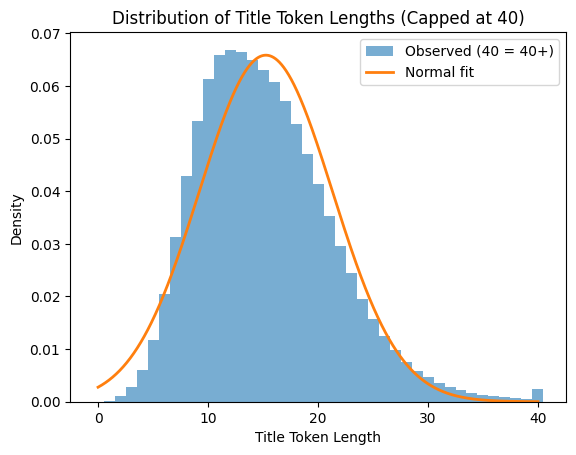
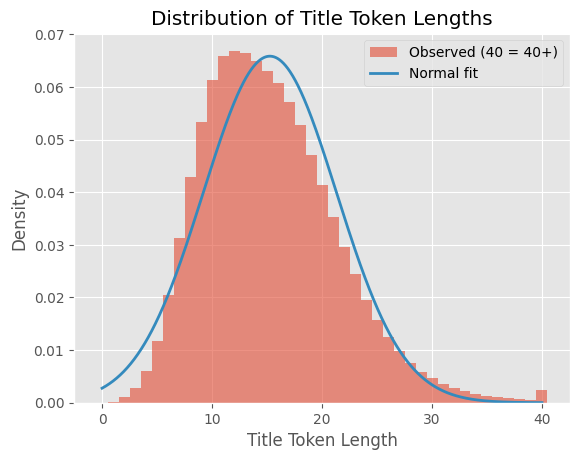
updated paper

diff --git a/paper/conference_101719.tex b/paper/conference_101719.tex
@@ -35,7 +35,7 @@ [email redacted]}
 
 \begin{abstract}
 
-This paper presents a partial replication study of "Can Pre-Trained Language Models Generate Titles for Research Papers?" Instead of fine-tuning large or medium-scale transformer models, I  investigate whether a 135-million parameter model, called SmolLM-135M, can achieve competitive title generation performance. I experiment with both full fine-tuning (FFT) and Low-Rank Adaptation (LoRA) across two training regimes: a small domain-specific dataset (CSPubSum) and a larger, more diverse dataset comprising over 2.4 million samples drawn from arXiv, Wikipedia, and Medium blog articles. Evaluation is performed on the LREC-COLING 2024 benchmark using ROUGE-1, ROUGE-2, and ROUGE-L scores. My best configuration, full fine-tuning on the large dataset, achieves ROUGE-1/2/L scores of 41.31/22.51/35.21, approaching the performance of fine-tuned large language models at a fraction of the parameter count. In the following, I discuss training dynamics, the effect of dataset scale, and the impact of generation length on evaluation scores. Last but not least, the final model is converted to ONNX format and deployed as a browser-based application using Transformers.js.
+This paper presents a partial replication study of "Can Pre-Trained Language Models Generate Titles for Research Papers?" Instead of fine-tuning large or medium-scale transformer models, I investigate whether a 135-million parameter model, called SmolLM-135M, can achieve competitive title generation performance. I experiment with both full fine-tuning (FFT) and Low-Rank Adaptation (LoRA) across two training regimes: a small domain-specific dataset (CSPubSum) and a larger, more diverse dataset comprising over 2.4 million samples drawn from arXiv, Wikipedia, and Medium blog articles. Evaluation is performed on the LREC-COLING 2024 benchmark using ROUGE-1, ROUGE-2, and ROUGE-L scores. My best configuration, full fine-tuning on the large dataset, achieves ROUGE-1/2/L scores of 41.32/22.51/35.21, approaching the performance of fine-tuned large language models at a fraction of the parameter count. In the following, I discuss training dynamics, the effect of dataset scale, and the impact of generation length on evaluation scores. Last but not least, the final model is converted to ONNX format and deployed as a browser-based application using Transformers.js.
 
 %{'loss': 11.6742, 'grad_norm': 1.7175283432006836, 'learning_rate': 3.841897233201582e-05, 'epoch': 0.2}            
 % {'loss': 11.0562, 'grad_norm': 2.64554762840271, 'learning_rate': 3.6837944664031623e-05, 'epoch': 0.39}            
@@ -105,11 +105,11 @@ As a secondary contribution, I demonstrate practical deployment: the best model 
 \section{Related Work}
 Title generation has historically been treated as a summarization problem, where the abstract plays the role of the source document and the title is the extreme summary. Early work used extractive approaches and template-based methods. With the rise of neural sequence-to-sequence models, abstractive generation became dominant, with LSTM-based encoder-decoders eventually giving way to transformer architectures \cite{b1}.
 
-The reference paper by Rehman et al. \cite{b2} is the most directly relevant work. They benchmark both encoder-decoder models and decoder-only LLMs on CSPubSum and LREC-COLING 2024, finding that fine-tuned T5-base and BART-base yield ROUGE-1 scores around 46--47, while PEGASUS-large reaches nearly 50. Notably, the non-fine-tuned LLaMA-3-8B model in a zero-shot setting scores only 32.92 on ROUGE-1, highlighting the importance of task-specific fine-tuning even for large models.
+The reference paper by Rehman et al. \cite{b2} is the most directly relevant work. They benchmark both encoder-decoder models and decoder-only LLMs on CSPubSum and LREC-COLING 2024, finding that fine-tuned T5-base and BART-base yield ROUGE-1 scores around 46--47 percent, while PEGASUS-large reaches nearly 50\%. Notably, the non-fine-tuned LLaMA-3-8B model in a zero-shot setting scores only 32.92 on ROUGE-1, highlighting the importance of task-specific fine-tuning even for large models.
 
 LoRA \cite{b3} has emerged as an efficient alternative to full fine-tuning by injecting trainable low-rank matrices into frozen transformer layers. Rather than updating all model weights, LoRA introduces a small number of additional parameters (controlled by rank r) that are sufficient to adapt the model to new tasks. This significantly reduces memory and compute requirements, making it well-suited for consumer hardware.
 
-SmolLM \cite{b4} is a family of compact causal language models trained on the SmolLM-Corpus, which includes curated web text and code. The 135M variant, used in this work, uses the Llama 3.2 architecture and tokenizer, making it compatible with standard HuggingFace tooling. To my knowledge, no prior work has evaluated SmolLM-135M on title generation.
+SmolLM \cite{b4} is a family of compact causal language models trained on the SmolLM-Corpus, which includes curated web text and code. The 135M variant, used in this work, uses the MobileLLM \cite{b5} architecture and cosmo2-tokenizer\cite{b6}, making it compatible with standard HuggingFace tooling. To my knowledge, no prior work has evaluated SmolLM-135M on title generation.
 
 
 \section{Data}
@@ -117,9 +117,10 @@ SmolLM \cite{b4} is a family of compact causal language models trained on the Sm
 \subsection{Training Datasets}
 I used two distinct training corpora representing different scales and domains.
 
-\textbf{CSPubSum}: The CSPubSum training dataset contains 8,120 abstract-title pairs from computer science publications. This dataset was used in the original reference paper and represents the primary in-domain training resource for scientific title generation. Cleaning follows the same protocol as the reference paper: title length is constrained to between 3 and 20 tokens, and abstracts must be at least 20 tokens long. 
+\textbf{CSPubSum}: The CSPubSum training dataset contains 8,120 abstract-title pairs from computer science publications. This dataset was used in the original reference paper and represents the primary in-domain training resource for scientific title generation. Cleaning follows the same protocol as the reference paper: title length is constrained to between 3 and 20 tokens, and abstracts must be at least 20 tokens long. This requirement is necessary, in order to treat the title generation as an extreme form of text summarization.
 
-\textbf{Large (diverse) Dataset}: To test whether broader training signal can compensate for domain mismatch, I construct a second training corpus by combining three sources: (1) a Kaggle dataset merging arXiv abstracts with Wikipedia articles, totalling approximately 2.65 million entries; (2) the Medium Articles dataset from Kaggle, containing approximately 192,000 blog posts with titles. The two sources are concatenated and subjected to a shared cleaning pipeline. 
+\textbf{Large (diverse) Dataset}: To test whether broader training signal can compensate for domain mismatch, I construct a second training corpus by combining three sources: (1) a Kaggle dataset merging arXiv abstracts with Wikipedia articles, totaling approximately 2.65 million entries; (2) the Medium Articles dataset from Kaggle, containing approximately 192,000 blog posts with titles. The two sources are concatenated and subjected to a shared cleaning pipeline. 
+\textbf{Note:} In the following this dataset is referred to as \textit{Large Dataset} or \textit{Large Diverse Dataset}. In the python code, this is usually referred to as \textit{own} or \textit{train\_data.csv}.
 
 
 \begin{table}[h]
@@ -131,67 +132,91 @@ I used two distinct training corpora representing different scales and domains.
 \hline
 \href{https://www.kaggle.com/datasets/monikaavagyan/combined-dataset-from-arxiv-and-wikipedia}{Wikipedia} & 900{,}000 \\
 \href{https://www.kaggle.com/datasets/fabiochiusano/medium-articles}{Medium.com} & 190{,}000 \\
-\href{https://www.kaggle.com/datasets/Cornell-University/arxiv}{Arxiv} & 1{,}700{,}000 \\
+\href{https://www.kaggle.com/datasets/Cornell-University/arxiv}{Arxiv} & 1{,}750{,}000 \\
 \hline
 \end{tabular}
 \end{table}
 
 \subsection{Data Cleaning}
 
-Both datasets pass through the following cleaning steps. First, duplicates are removed. Second, samples with titles containing LaTeX mathematical expressions (e.g., dollar-sign delimited formulas), numbers greater than 99, or parenthetical expressions are filtered out, as these tend to produce noisy or unpredictable targets. Third, all samples are tokenized using the SmolLM tokenizer, and only those where the concatenated text (abstract + title prompt) fits within 512 tokens are retained. Finally, any samples whose titles appear in the LREC-COLING 2024 test set are removed to prevent data leakage.
+Both datasets pass through the following cleaning steps. First, duplicates are removed. Second, samples with titles containing LaTeX mathematical expressions (e.g., dollar-sign delimited formulas), numbers greater than 99, or parenthetical expressions are filtered out, as these tend to produce noisy or unpredictable targets. Third, all samples are tokenized using the cosmos2 tokenizer, and only those where the concatenated text (abstract + title prompt) fits within 512 tokens are retained. Finally, any samples whose titles appear in the LREC-COLING 2024 \textbf{test set} are removed to prevent data leakage.
 
 \begin{figure}[htbp]
 \centering
 \includegraphics[width=1\columnwidth]{data_cleaning_pipeline(1).png}
 \caption{Visualization of data cleaning pipeline for the large diverse dataset.}
-\label{fig}
+\label{fig:dataCleaning}
 \end{figure}
 
-After cleaning, the large dataset contains approximately 2.41 million samples. A notable consequence of the LaTeX filtering is the removal of a substantial fraction of arXiv papers, many of which contain mathematical notation in their titles. This shifts the distribution of the large dataset toward more general-domain content, which may explain some of the generalisation patterns observed in the results.
+After cleaning, the large dataset contains approximately 2.41 million samples. A notable consequence of the LaTeX filtering is the removal of a substantial fraction of arXiv papers, many of which contain mathematical notation in their titles. This may shift the distribution of the large dataset toward more general-domain content, which may explain some of the generalisation patterns observed in the results. See Figure \ref{fig:dataCleaning} for a detailed breakdown of the cleaning pipeline.
 
 \subsection{Evaluation Dataset}
 
-All models are evaluated on the LREC-COLING 2024 test set, a benchmark of scientific paper title-abstract pairs released alongside the reference paper. This set is held out from all training data, as described above. I report macro-averaged F1 scores for ROUGE-1, ROUGE-2, and ROUGE-L using the rouge-score library with stemming enabled.
+All models are evaluated on the LREC-COLING 2024 test set, a benchmark of scientific paper title-abstract pairs released alongside the reference paper. As an effort to make my results easier to reproduce, I published the test set on Kaggle \cite{b7}. This set is held out from all training data, as described above.
 
 \section{Methodology}
 
 \subsection{Base Model}
-All experiments use SmolLM-135M (HuggingFaceTB/SmolLM-135M) as the base model. This is a decoder-only causal language model with 135 million parameters, trained on a mixture of web text and code. It uses the Llama 3.2 tokenizer with a vocabulary size of 49,152. The model is publicly available on HuggingFace.
+All experiments use SmolLM-135M v1 (\href{https://huggingface.co/HuggingFaceTB/SmolLM-135M}{HuggingFaceTB/SmolLM-135M}) as the base model. This is a decoder-only causal language model with 135 million parameters, trained on a mixture of web text and code. It uses the cosmos2-tokenizer in conjunction with a vocabulary of size 49{,}152. The model is publicly available on HuggingFace \cite{b8}. For more information about the architecture and hyper-parameters used, visit \href{https://huggingface.co/blog/smollm}{https://huggingface.co/blog/smollm}.
 
-A key architectural observation, relevant to the LoRA configuration, is that the model contains eight distinct linear layer types: \texttt{q\_proj, k\_proj, v\_proj, o\_proj, gate\_proj, up\_proj, down\_proj}, and \texttt{lm\_head}. By default, LoRA adapts only \texttt{q\_proj} and \texttt{v\_proj}. I adopt this default in the experiments due to computation and time constraints. However, I would encourage further experiments which adapt more linear layers as these would likely boost accuracy.
+I decided to use the first version of the SmolLM-135M model, as the successor only yielded small improvements over the first version. Additionally, the first version was released in February 2024, which is close to the release date of the reference paper (September 2024), allowing for a fairer comparison.
 
 \subsection{Prompt Format}
-I frame title generation as a conditional language modelling task. Each training example is formatted as:
+I frame title generation as a conditional language modeling task. Each training example is formatted as:
 
 \texttt{<abstract>\textbackslash{n}\textbackslash{n}Title: <title><EOS>}
 
-During inference, only the abstract and the "Title:" prompt are provided, and the model generates the title autoregressively. Loss is computed only on the title tokens (the abstract prefix is masked with -100 labels in the full fine-tuning setup). This causal language modelling approach is standard for decoder-only models adapted to generation tasks. When fine-tuning LoRA, no masking was done and the loss was computed on the entire input sequence. This was due to a lack of understanding. Unfortunately, this could have had a negative impact on fine-tuning, as the model gets rewarded to memorize the entire input sequence rather than just focusing on the title. 
+During inference, only the abstract and the "Title:" prompt are provided, and the model generates the title autoregressively. Loss is computed only on the title tokens (the abstract prefix is masked with -100 labels in the full fine-tuning setup). This causal language modeling approach is standard for decoder-only models adapted to generation tasks. When fine-tuning LoRA, no masking was done and the loss was computed on the entire input sequence. This was due to a lack of understanding. Unfortunately, this could have had a negative impact on fine-tuning, as the model gets rewarded to memorize the entire input sequence rather than just focusing on the title. 
 
 \subsection{LoRA Fine-Tuning}
-The first experimental setup uses Low-Rank Adaptation (LoRA) via the PEFT library. LoRA is applied with rank r=16, alpha=16, and dropout of 0.05, targeting the default query and value projection layers. The model is trained on the large diverse dataset for 5 epochs using the TRL SFTTrainer. Batch size is 8 with 4 gradient accumulation steps (effective batch size 32), and learning rate is 4e-5 (0,00004). These metrics were taken from the reference paper, but are also considered “sane defaults” in the machine learning community. The SFTTrainer (supervised fine-tuning) operates on raw formatted text strings rather than pre-tokenized sequences, using the text field from the formatted examples, however, during cleaning the actual input size was already measured in tokens. 
+The first experimental setup uses Low-Rank Adaptation (LoRA). LoRA is applied with rank ($r$) = 16, alpha ($\alpha$) = 16, and dropout of 0.05, targeting the default query and value projection layers. Since $r==\alpha$, the \textbf{effective adaptation strength} ($\frac{r}{\alpha}) = 1$, implying a stable adjustment of weight changes. As $\alpha$ denotes the "impact" of the update which is applied to the weights and $r$ The model is trained on the large diverse dataset for 5 epochs using the SFTTrainer. Batch size is 8 with 4 gradient accumulation steps (effective batch size 32), and learning rate is 4e-5 (0,00004). These metrics were taken from the reference paper, but are also considered “sane defaults” in the machine learning community. The SFTTrainer (supervised fine-tuning) operates on raw formatted text strings rather than pre-tokenized sequences, using the text field from the formatted examples, however, during cleaning the actual input size was already measured in tokens. \\
+
+Also relevant for the LoRA configuration, is that the base model contains eight distinct linear layer types: \texttt{q\_proj, k\_proj, v\_proj, o\_proj, gate\_proj, up\_proj, down\_proj}, and \texttt{lm\_head}. By default, the python library used for this experiment, huggingface PEFT \cite{b9}, adjusts only \texttt{q\_proj} and \texttt{v\_proj}. I adopt this default in the experiments due to computation and time constraints. 
+Nevertheless, I would encourage further experiments which adapt more linear layers as these would likely boost accuracy. 
+
+Another observation which is worth mentioning that these settings reduce the size from 135 million (135,436,608 to be exact) parameters to 921,600. That is 0.68\% of all tunable parameters and might help explain some of the results in the later sections. 
 
 The fine-tuning happened on an NVIDIA V100 16GB VRAM GPU node hosted in the LRZ cloud. Training on the large dataset took 100 hours.
 
 After training, the LoRA adapter is merged into the base model weights, which produces a standard HuggingFace model that can be distributed independently.
 
-\subsection{Full Fine Tuning}
+\subsection{Full Fine Tuning (FFT)}
 In the second experimental setup, all model weights are updated during training. I conduct two FFT runs: one on the small CSPubSum dataset and one on the large diverse dataset.
 
-For the CSPubSum run, training proceeds for 1 epoch using a batch size of 16 with 2 gradient accumulation steps (effective batch size 32), an unchanged learning rate of 4e-5 with a cosine scheduler and 3\% warmup ratio.  For the large dataset run, the same hyperparameters are used but training is capped at 1 epoch due to the dataset size. 
+For the CSPubSum run, training proceeds for 1 epoch using a batch size of 16 with 2 gradient accumulation steps (effective batch size 32), an unchanged learning rate of 4e-5 with a cosine scheduler and 3\% warmup ratio. For the large dataset run, the same hyperparameters are used but training is capped at 1 epoch due to the dataset size and insights from the previous fine tuning run, where after the first epoch a validation plateau was reached.
 
 The fine-tuning happened on an NVIDIA V100 16GB VRAM GPU node hosted in the LRZ cloud. Training took 10 hours.
 
 \subsection{Evaluation}
-Title generation is performed with greedy decoding (\texttt{do\_sample=False}, for repeatability) and a maximum of 30 new tokens. The 30-token limit was selected based on empirical observation: using 20 tokens produced significantly worse scores (approximately 20\% ROUGE-1 degradation). While the distribution of title token lengths has a mean of 15.27 tokens, it exhibits a right tail, with a non-trivial portion of titles exceeding 20 tokens. When generation is capped at 20 tokens, these longer titles are forcibly truncated before completion. This causes the model to output partial titles that fail to match their full references during ROUGE evaluation. A truncated output structurally cannot recover the tokens it never produced, negatively impacting recall and the F1 score. Extending the limit to 30 tokens covers the overwhelming majority of the distribution, allowing nearly all titles to be generated in full. 
+Title generation is performed with greedy decoding (\texttt{do\_sample=False}, for repeatability) and a maximum of 30 new tokens. The 30-token limit was selected based on empirical observation: using 20 tokens produced significantly worse scores (approximately 20\% ROUGE-1 degradation). An investigation (Figure~\ref{fig:TitleTokenDistribution}) revealed that, although the distribution of title token lengths has a mean of 15.27 tokens, it exhibits a right tail, with a non-trivial portion of titles exceeding 20 tokens. When generation is capped at 20 tokens, these longer titles are forcibly truncated before completion. This causes the model to output partial titles that fail to match their full references during ROUGE evaluation. A truncated output structurally cannot recover the tokens it never produced, negatively impacting recall and the F1 score. Extending the limit to 30 tokens covers the overwhelming majority of the distribution, allowing nearly all titles to be generated in full. 
 
 \begin{figure}[htbp]
 \centering
-\includegraphics[width=1\columnwidth]{title-token-distribution.png}
+\includegraphics[width=\columnwidth]{title-token-distribution.png}
 \caption{Average Title Token Distribution. }
-\label{fig}
+\label{fig:TitleTokenDistribution}
 \end{figure}
 
-ROUGE scores are computed against lowercased ground-truth titles using F1 measures for ROUGE-1, ROUGE-2, and ROUGE-L. Entity-level factual consistency metrics (precision, recall, F1 over named entities extracted using SciSpaCy) are also computed in the evaluation script, following the methodology of the reference paper, though I focus on ROUGE as the primary comparison metric.
+\subsection{Evaluation Metrics}
+
+To make my results comparable a widely accepted baseline called ROUGE is used. ROUGE stands for Recall-Oriented Understudy for Gisting Evaluation, and can be measured in different ways. I report F1 scores for ROUGE-1, ROUGE-2, and ROUGE-L using the rouge-score python library with stemming enabled \cite{b11}.  ROUGE-1/2 are part of the ROUGE-N family which measures the $n$-gram between a \textit{hypothesis} (the generated title) and the \textit{ground-truth} (the actual title). An $n$-gram is a sequence of $n$ adjacent symbols in a particular order. For example, Table~\ref{tab:ngram_example} illustrates how a sentence is decomposed into 1-grams and 2-grams.
+
+\begin{table}[htbp]
+\centering
+\caption{Example of $n$-gram extraction from a sample sequence}
+\begin{tabular}{|p{2.2cm}|p{2.5cm}|p{3.1cm}|}
+\hline
+\textbf{Example} & \textbf{1-gram sequence} & \textbf{2-gram sequence} \\ \hline
+... to be or not ... & 
+... to, be, or, not, ... & 
+... to be, be or, or not, ... \\ \hline
+\end{tabular}
+\label{tab:ngram_example}
+\end{table}
+
+ROUGE-L, simply measures the longest common subsequence (LCS) in both, the hypothesis and the ground-truth. A subsequence is a string generated from the ground-truth by deleting 0 or more characters, without changing the relative order of the remaining characters.
+
+Last but not least, stemming is a preprocessing technique that reduces words to their word stems by removing suffixes and prefixes (e.g. run\textbf{s} $\rightarrow$ run \& run\textbf{ning} $\rightarrow$ run). This might be a deviation from the reference paper, unfortunately, I was unable to find any artifacts of the code used for evaluating Rehman et al. \cite{b2} fine-tuned models.
 
 
 % From Batch 19200, we employed logging and a validation of 1\% of the total dataset size.
@@ -199,16 +224,34 @@ ROUGE scores are computed against lowercased ground-truth titles using F1 measur
 
 \section{Results}
 
-Table 1 presents the main results across all experimental configurations alongside the baselines from the reference paper. Our own results are highlighted in bold.
+ROUGE scores are computed against lowercased and stemmed ground-truth titles using F1 measures for ROUGE-1, ROUGE-2, and ROUGE-L.
+
+Additionally, entity-level factual consistency metrics (precision, recall, F1 over named entities extracted using SciSpacy) are also computed in the evaluation script, following the methodology of the reference paper, though, in the following, I focus on ROUGE as the primary comparison metric due to required brevity. 
+
+The results of the factual consistency score can be found in the appendix \ref{fig:FactualOwn}.
+
+\begin{figure}[htbp]
+\centering
+\includegraphics[width=\columnwidth]{rouge_own.png}
+\caption{ROUGE scores of \textbf{Large Dataset} when fine-tuning using LoRA for 5 epochs. The validation set was LREC-COLING 2024.}
+\label{fig:RougeOwn}
+\end{figure}
+
+During the first half of the first epoch, rouge scores increase dramatically. From $\approx$~25\% to $\approx$~34\% for ROUGE-1, which is a $40\%$ increase! 
+For the rest of the fine-tuning, performance hits a plateau. For ROUGE-1 that is at around 33\%. ROUGE-2 and ROUGE-L hover around 16\% and 28\% respectively. The graph is capped at 50\%, to show the ROUGE-1 score of the best performing model from the reference paper, PEGASUS-large.
+
+The best recorded checkpoint was after 42200 steps. 5 epochs were 417345 steps and took 100 hours walltime. In hind-sight, fine-tuning could have been stopped after $\approx$~10~hours. However, validation was done after the fine-tuning finished, revealing this pattern too late. \\
+
+Table \ref{tab:rouge_comparison} presents the measurements from the best checkpoint across all experimental configurations alongside the measurements from the reference paper. Our own results are highlighted in bold.
 
 \begin{table}[htbp]
-\caption{ROUGE-1/2/L F1 scores on the LREC-COLING 2024 test set. Reference results from Rehman  et al. \cite{b2}. Our results in bold.}
+\caption{ROUGE-1/2/L F1 scores on the LREC-COLING 2024 test set. Reference results from Rehman  et al. \cite{b2}. Results in bold.}
 \begin{center}
 \begin{tabular}{|l|c|c|c|}
 \hline
 \textbf{Model} & \multicolumn{3}{|c|}{\textbf{ROUGE Metrics}} \\
 \cline{2-4}
- & \textbf{\textit{ROUGE-1}} & \textbf{\textit{ROUGE-2}} & \textbf{\textit{ROUGE-L}} \\
+ & \textbf{\textit{1}} & \textbf{\textit{2}} & \textbf{\textit{L}} \\
 \hline
 T5-base                      & 46.84 & 28.70 & 41.69 \\
 BART-base                    & 46.87 & 27.66 & 41.89 \\
@@ -219,8 +262,8 @@ GPT-3.5-turbo                & 45.16 & 23.97 & 38.88 \\
 \hline
 \textbf{SmolLM LoRA CSPubSum}    & 25.52 & 10.90 & 20.54 \\
 \textbf{SmolLM FFT CSPubSum}     & 35.36 & 17.54 & 30.12 \\
-\textbf{SmolLM LoRA Large Dataset} & 34.08 & 16.26 & 27.88 \\
-S\textbf{molLM FFT Large Dataset}  & 41.31 & 22.51 & 35.21 \\
+\textbf{SmolLM LoRA Large Dataset} & 34.79 & 16.84 & 28.61 \\
+\textbf{SmolLM FFT Large Dataset}  & 41.32 & 22.51 & 35.21 \\
 \hline
 \multicolumn{4}{l}{$^{\mathrm{a}}$ ROUGE scores reported as percentages.}
 \end{tabular}
@@ -232,35 +275,64 @@ One can see, the FFT model trained exclusively on CSPubSum (8,120 samples) achie
 
 The LoRA model trained on the same CSPubSum dataset achieves lower scores of 25.52/10.90/20.54. This is likely due to the fact that the base model lacked exposure to scientific corpora during pre-training. Therefore, the restricted parameter space of the adapters cannot effectively synthesize the necessary domain-specific knowledge.
 
-In contrast, the LoRA model trained on the large diverse dataset for 5 epochs achieves 34.07 / 16.26 / 27.88, a meaningful improvement over the CSPubSum FFT baseline. The LoRA approach benefits from the broader distribution of the large training corpus while keeping the number of trainable parameters low.
+In contrast, the LoRA model trained on the large diverse dataset for 5 epochs achieves 34.79 / 16.84 / 28.61, a slight regression from the CSPubSum FFT baseline. This is likely due to the limited representational flexibility of low rank adaption. Here, scientific summarization could simply be too complex and benefit from deeper model adaption.
+% The LoRA approach benefits from the broader distribution of the large training corpus while keeping the number of trainable parameters low.
 
-The strongest result is achieved by the FFT model trained on the large diverse dataset: 41.31/22.51/35.21. This is competitive with the zero-shot LLaMA-3-8B baseline (32.92/16.66/27.66) and comes close to models that are 60 times larger. The gap to the best reference model (PEGASUS-large: 49.85/30.51/43.93) remains substantial, but the result illustrates that a 135M model with appropriate training data can perform surprisingly well.
+The strongest result is achieved by the FFT model trained on the large diverse dataset: 41.32/22.51/35.21. This is competitive with the zero-shot LLaMA-3-8B baseline (32.92/16.66/27.66) and comes close to models that are 60 times larger. The gap to the best reference model (PEGASUS-large: 49.85/30.51/43.93) remains substantial, but the result illustrates that a 135M model with appropriate training data can perform surprisingly well.
 
+\begin{figure}[htbp]
+\centering
+\includegraphics[width=\columnwidth]{best_comparison_own.png}
+\caption{Best ROUGE scores of \textbf{Large Dataset} between LoRA (5 epochs) and FFT (1 epoch). The validation set was LREC-COLING 2024.}
+\label{fig:comparisonLoRAFFTOwn}
+\end{figure}
+
+In Figure \ref{fig:comparisonLoRAFFTOwn} \& \ref{fig:comparisonLoRAFFTCSPubSum}, one can see that full fine-tuning always outperforms LoRA by a notable margin. Why this could be is discussed in the following chapter.
+
+\begin{figure}[htbp]
+\centering
+\includegraphics[width=\columnwidth]{best_comparison_CSPubSum.png}
+\caption{Best ROUGE scores of \textbf{CSPubSum} between LoRA (5 epochs) and FFT (1 epoch). The validation set was LREC-COLING 2024.}
+\label{fig:comparisonLoRAFFTCSPubSum}
+\end{figure}
 
 \section{Discussion}
-\subsection{Dataset Scale vs. Domain Specificit}
-My biggest finding is that the large diverse dataset does not always outperform the in-domain CSPubSum dataset, despite the former still containing substantially more scientific content. This suggests that, for a model as small as SmolLM-135M, learning the general task of summarising text into a short, descriptive headline from a large and varied corpus may be too much and more confusing than learning the narrow stylistic conventions of scientific titles. Larger models, by contrast, may be better positioned to exploit in-domain data efficiently.
+\subsection{Dataset Scale vs. Domain Specificity}
+My biggest finding is that the large diverse dataset does not always outperform the in-domain CSPubSum dataset, despite the former still containing substantially more scientific content. This suggests that, for a model as small as SmolLM-135M, learning the general task of summarizing text into a short, descriptive headline from a large and varied corpus may be too much and more confusing than learning the narrow stylistic conventions of scientific titles (underfitting). Larger models, by contrast, may be better positioned to exploit in-domain data efficiently.
 
 \subsection{Overfitting}
-A potential weakness of the large dataset experiment is the risk of overtraining. Although the diverse corpus contains over 2.4 million samples, the title length distribution differs substantially from the LREC-COLING evaluation set, which focuses on scientific papers. During the LoRA training (5 epochs), performance was observed to degrade gradually after the first epoch on held-out validation loss. This is consistent with a form of distribution shift: the model adapts increasingly to the style of Medium blog titles and general web content, drifting away from the scientific register expected by the benchmark.
+A potential weakness of the large dataset experiment is the risk of overtraining. Although the diverse corpus contains over 2.4 million samples after cleaning, the title length distribution differs substantially from the LREC-COLING evaluation set, which focuses on scientific papers. During the LoRA training (5 epochs), performance was observed to plateau after the first epoch on held-out validation loss. This is consistent with a form of distribution shift: the model adapts increasingly to the style of Medium blog titles and general web content, drifting away from the scientific register expected by the benchmark.
 
 The large-scale FFT experiment was restricted to a single epoch to avoid this degradation. Even so, it is possible that the model has not fully converged, and that a more carefully tuned learning rate schedule or earlier stopping criterion could yield further improvements.
 
 \subsection{Impact of Generation Length}
 The choice of maximum generation length (\texttt{max\_new\_tokens}) has a disproportionate effect on ROUGE scores in this setting. Restricting generation to 20 tokens approximately halved ROUGE-1 performance compared to 30 tokens. This is an artifact of the training data distribution: the large dataset contains many titles substantially longer than those in CSPubSum, so the model learns to generate longer outputs. When the generation is cut short, partially generated titles receive poor ROUGE scores.
 
-This is a methodological weakness relative to the reference paper, which evaluates models trained on domain-matched data with more consistent title lengths. If future is done, it work should consider normalising title length either during training by filtering for length consistency or during evaluation, using length-normalised ROUGE variants.
+This is a methodological weakness relative to the reference paper, which evaluates models trained on domain-matched data with more consistent title lengths. If in the future further research is done, it work should consider normalizing title length either during training by filtering for length consistency or during evaluation, using length-normalized ROUGE variants.
 
 
 \subsection{LoRA vs. Full Fine-Tuning}
-At this model scale, full fine-tuning outperforms LoRA by a notable margin (41.31 vs. 34.04 ROUGE-1). This is somewhat expected: with only 135M parameters, the model is small enough that full fine-tuning remains computationally feasible, and the flexibility of updating all weights allows the model to better adapt to the target task. The advantage of LoRA lies primarily in memory efficiency and faster training iteration, which becomes more relevant for larger models. At 135M parameters, the memory savings are less critical.
+At this model scale, full fine-tuning outperforms LoRA by a notable margin (41.32 vs. 35.36 ROUGE-1). This is somewhat expected: with only 135M parameters, the model is small enough that full fine-tuning remains computationally feasible, and the flexibility of updating all weights allows the model to better adapt to the target task. The advantage of LoRA lies primarily in memory efficiency and faster training iteration, which becomes more relevant for larger models. At 135M parameters, the memory savings are less critical.
 
 \subsection{Limitations}
-Several limitations should be acknowledged. First, the evaluation is restricted to ROUGE scores. I could not go into detail to report the full entity-level factual consistency metrics from the reference paper, since this would extend the paper by a notable margin. However, these can be found in the appendix. Second, the LREC-COLING test set evaluates performance on computer science papers, but the large training dataset is heavily weighted toward general web content after the LaTeX filtering step, creating a domain mismatch that may suppress performance. Third, no hyperparameter search was conducted; the learning rates, batch sizes, and LoRA rank were chosen based on reasonable defaults rather than systematic optimisation. Fourth, and most fundamentally, SmolLM-135M is a decoder-only causal model, whereas the best-performing reference models (T5, BART, PEGASUS) are encoder-decoder architectures specifically designed for conditional generation. This architectural difference may inherently disadvantage our approach for short, precise generation tasks.
+Several limitations should be acknowledged. First, the evaluation is restricted to ROUGE scores. I could not go into detail to report the full entity-level factual consistency metrics from the reference paper, since this would extend the paper by a notable margin. However, these can be found in the appendix. 
 
-\section{Practical Deployment: A Browser-Based Demo}
+Second, the LREC-COLING 2024 test set evaluates performance on computer science papers, but the large training dataset is heavily weighted toward general web content after the LaTeX filtering step, creating a domain mismatch that may suppress performance. 
 
-As a practical contribution beyond the numerical results, the merged LoRA model was converted to ONNX format using the Optimum library and subsequently deployed as a browser-based application using Transformers.js. ONNX runtime allows model inference to run entirely within the browser via WebAssembly, without requiring any API calls.
+Third, no hyperparameter search was conducted; the learning rates, batch sizes, and LoRA rank were chosen based on reasonable defaults rather than systematic optimization. 
+
+Fourth, and most fundamentally, SmolLM-135M is a decoder-only causal model, whereas the best-performing reference models (T5, BART, PEGASUS) are encoder-decoder architectures specifically designed for conditional generation. This architectural difference may inherently disadvantage our approach for short, precise generation tasks. This can also be seen when comparing the ROUGE scores visually (Figure \ref{fig:comparisonAll}). All decoder \& encoder models dominate the benchmarks, even compared to much bigger decoder only models like the 8 billion Llama 3 model.
+
+\begin{figure}[htbp]
+\centering
+\includegraphics[width=170mm, angle=90]{best_comparison_CSPubSum_all.png}
+\caption{Best ROUGE Scores of all models, compared visually. All SmolLM models are color coded.}
+\label{fig:comparisonAll}
+\end{figure}
+
+\section{Practical Deployment: Title Generation in the Browser}
+
+As a practical contribution beyond the numerical results, the LoRA adapters were merged back into the base model was converted to ONNX format using the Optimum library and subsequently deployed as a browser-based application using Transformers.js. ONNX runtime allows model inference to run entirely within the browser via WebAssembly, without requiring any API calls (apart from downloading the model into local storage once).
 
 The pipeline for deployment is as follows: the LoRA adapter checkpoint is first merged into the base model weights, producing a standard HuggingFace model. This model is then exported to ONNX. The resulting model file, along with the tokenizer configuration, is saved and hosted on HuggingFace Hub under the identifier throvn/abstract-title-generator.
 The live demo is accessible at:
@@ -277,12 +349,17 @@ Users can paste any scientific abstract (or other text) into the interface and r
 \end{figure}
 
 \section{Conclusion}
-This work presented a partial replication and extension of the paper "Can Pre-Trained Language Models Generate Titles for Research Papers?" using SmolLM-135M, a 135-million parameter language model. I conducted experiments across two fine-tuning strategies and two dataset regimes, finding that the combination of full fine-tuning and a large diverse training corpus yields ROUGE-1/2/L scores of 41.31/22.51/35.21 on the LREC-COLING 2024 benchmark. This result is competitive with zero-shot LLaMA-3-8B and within reasonable range of fine-tuned models an order of magnitude larger.
+This work presented a partial replication and extension of the paper "Can Pre-Trained Language Models Generate Titles for Research Papers?" using SmolLM-135M, a 135-million parameter language model. I conducted experiments across two fine-tuning strategies and two dataset regimes, finding that the combination of full fine-tuning and a large diverse training corpus yields ROUGE-1/2/L scores of 41.32/22.51/35.21 on the LREC-COLING 2024 benchmark. This result is competitive with zero-shot LLaMA-3-8B and within reasonable range of fine-tuned models an order of magnitude larger (like ChatGPT-3.5-turbo).
 
-Our findings support the hypothesis that title generation, being a relatively constrained and short-form generation task, does not necessarily require large model capacity. The primary bottleneck at the 135M scale appears to be training data quality rather than scale or model size.
+My findings support the hypothesis that title generation, being a relatively constrained and short-form generation task, does not necessarily require large model capacity. The primary bottleneck at the 135M scale appears to be training data quality rather than scale or model size.
 
 \section{Data \& Code}
-Since the resources are too big to submit to moodle, I host them on github. The resources are available here: \href{https://github.com/Throvn/aaml-project}{https://github.com/Throvn/aaml-project}
+Since the resources are too big to submit to moodle, I host them on github, kaggle, and huggingface. The resources are available here: 
+\begin{itemize}
+    \item  \href{https://github.com/Throvn/aaml-project}{Source Code}
+    \item \href{https://www.kaggle.com/datasets/throvn/lrec-coling-2024}{LREC-COLING 2024 Dataset}
+    \item \href{https://huggingface.co/Throvn/abstract-title-generator}{Finetuned LoRA Model (transformers.js compatible)}
+\end{itemize}
 
 \section{Appendix}
 
@@ -344,6 +421,12 @@ SmolLM-135M LoRA CSPubSum      & 24.18 & 34.13 & 26.98 \\
 \end{center}
 \end{table}
 
+\begin{figure}[htbp]
+\centering
+\includegraphics[width=1\columnwidth]{factual_own.png}
+\caption{Online hosted abstract title generator}
+\label{fig:FactualOwn}
+\end{figure}
 
 \begin{thebibliography}{00}
 
@@ -363,6 +446,39 @@ HuggingFace,
 ``SmolLM - blazingly fast and remarkably powerful''
 2024. [Online]. Available: https://huggingface.co/blog/smollm
 
+\bibitem{b5}
+Z. Liu, C. Zhao, F. Iandola, C. Lai, Y. Tian, I. Fedorov, Y. Xiong, E. Chang, Y. Shi, R. Krishnamoorthi, L. Lai, and V. Chandra,
+``MobileLLM: Optimizing Sub-billion Parameter Language Models for On-Device Use Cases,''
+\emph{arXiv preprint arXiv:2402.14905}, 2024. [Online]. Available: https://arxiv.org/abs/2402.14905
+
+\bibitem{b6}
+Hugging Face,
+``cosmo2-tokenizer: Tokenizer for the training of cosmo2,''
+2024. [Online]. Available: https://huggingface.co/HuggingFaceTB/cosmo2-tokenizer
+
+\bibitem{b7}
+Throvn,
+``LREC-COLING 2024: Collection of datasets from the Joint International Conference on Computational Linguistics, Language Resources and Evaluation,''
+2024. [Online]. Available: https://www.kaggle.com/datasets/throvn/lrec-coling-2024
+
+\bibitem{b8}
+Hugging Face,
+``SmolLM-135M: A 135M-parameter small language model from the SmolLM family,''
+2024. [Online]. Available: https://huggingface.co/HuggingFaceTB/SmolLM-135M
+
+\bibitem{b9}
+Hugging Face,
+``PEFT (Parameter-Efficient Fine-Tuning): Documentation for efficient adaptation of large pretrained models,''
+2024. [Online]. Available: https://huggingface.co/docs/peft/index
+
+\bibitem{b10}
+Lin, Chin-Yew. 
+"Rouge: A package for automatic evaluation of summaries." Text summarization branches out. 2004.
+
+\bibitem{b11}
+Google LLC,
+``rouge-score: Pure Python implementation of ROUGE-1.5.5,''
+2019. [Online]. Available: https://pypi.org/project/rouge-score/
 \end{thebibliography}
 \vspace{12pt}
 